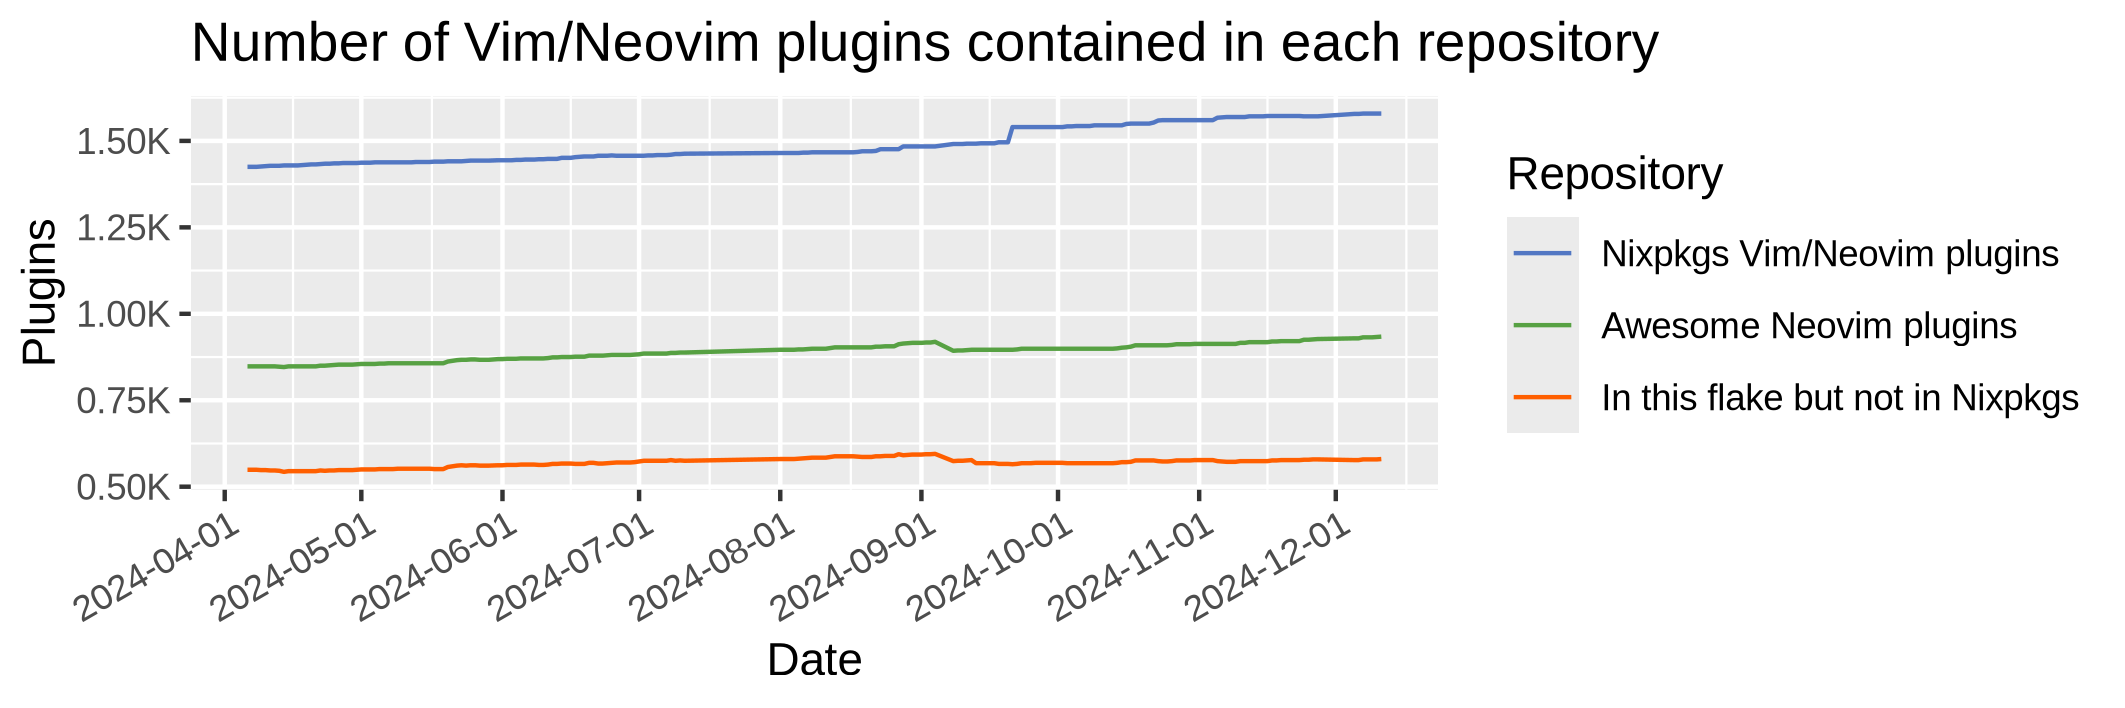
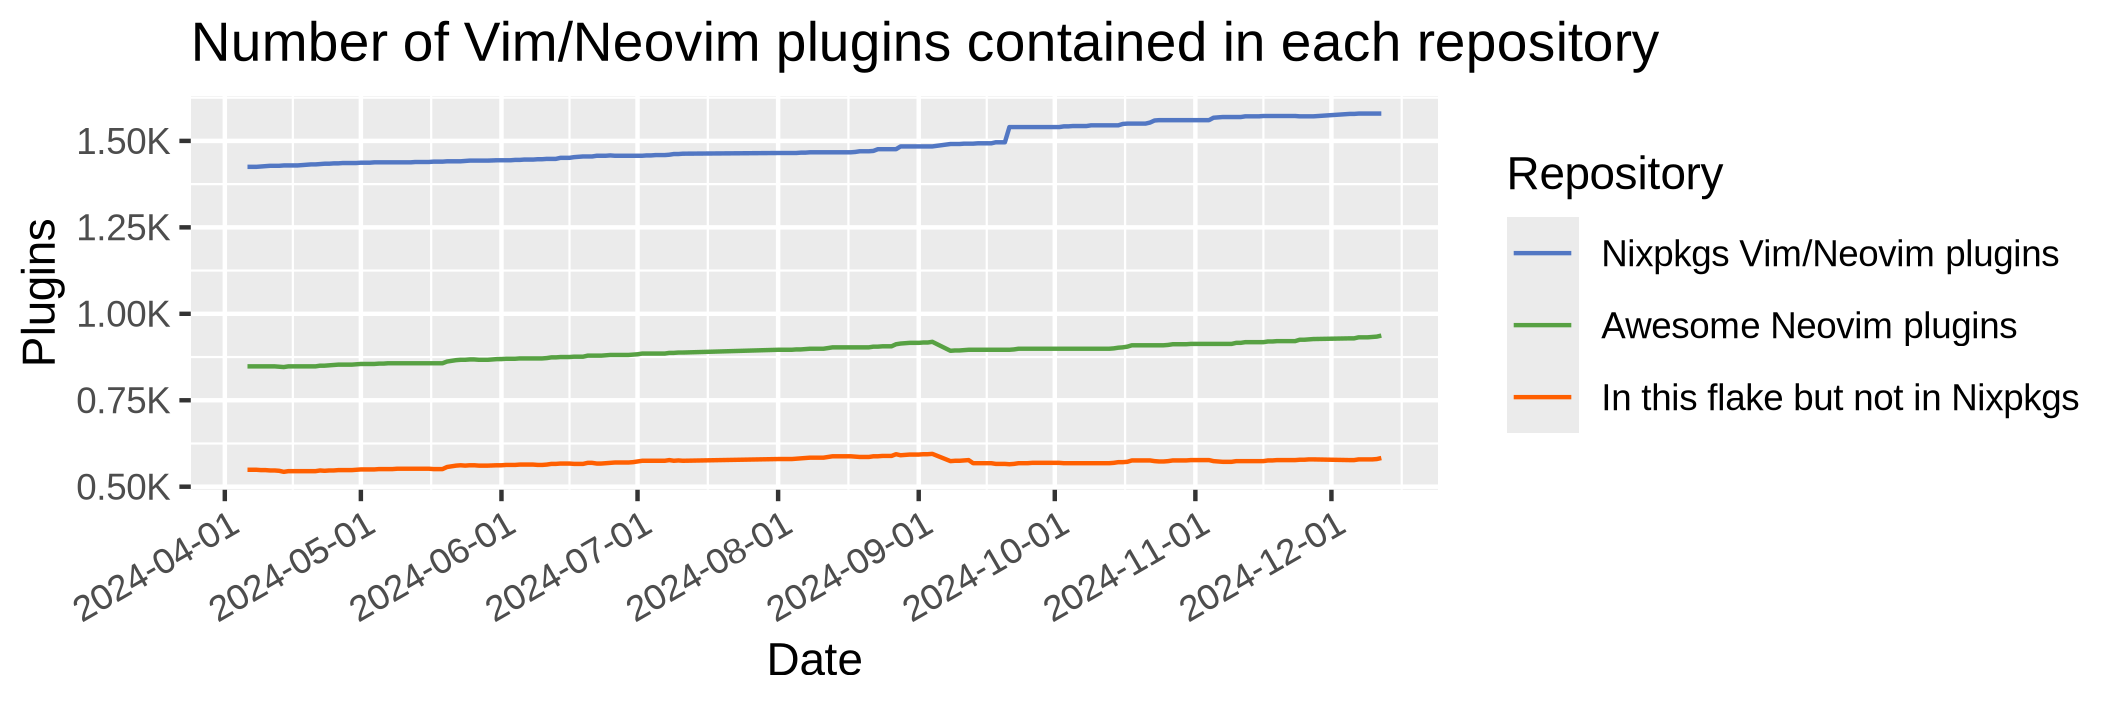
auto: update vim plugins

diff --git a/README.md b/README.md
@@ -8,7 +8,7 @@ Nix flake of Awesome Neovim plugins.
 
 [b1]: https://img.shields.io/github/actions/workflow/status/m15a/flake-awesome-neovim-plugins/check.yml?style=flat-square&logo=github&label=CI
 [b2]: https://github.com/m15a/flake-awesome-neovim-plugins/actions/workflows/check.yml
-[b3]: https://img.shields.io/badge/Awesome_Neovim_plugins-934-57A143?style=flat-square
+[b3]: https://img.shields.io/badge/Awesome_Neovim_plugins-937-57A143?style=flat-square
 [b4]: https://img.shields.io/endpoint?url=https://flakehub.com/f/m15a/flake-awesome-neovim-plugins/badge&style=flat-square
 [b5]: https://flakehub.com/flake/m15a/flake-awesome-neovim-plugins
 
